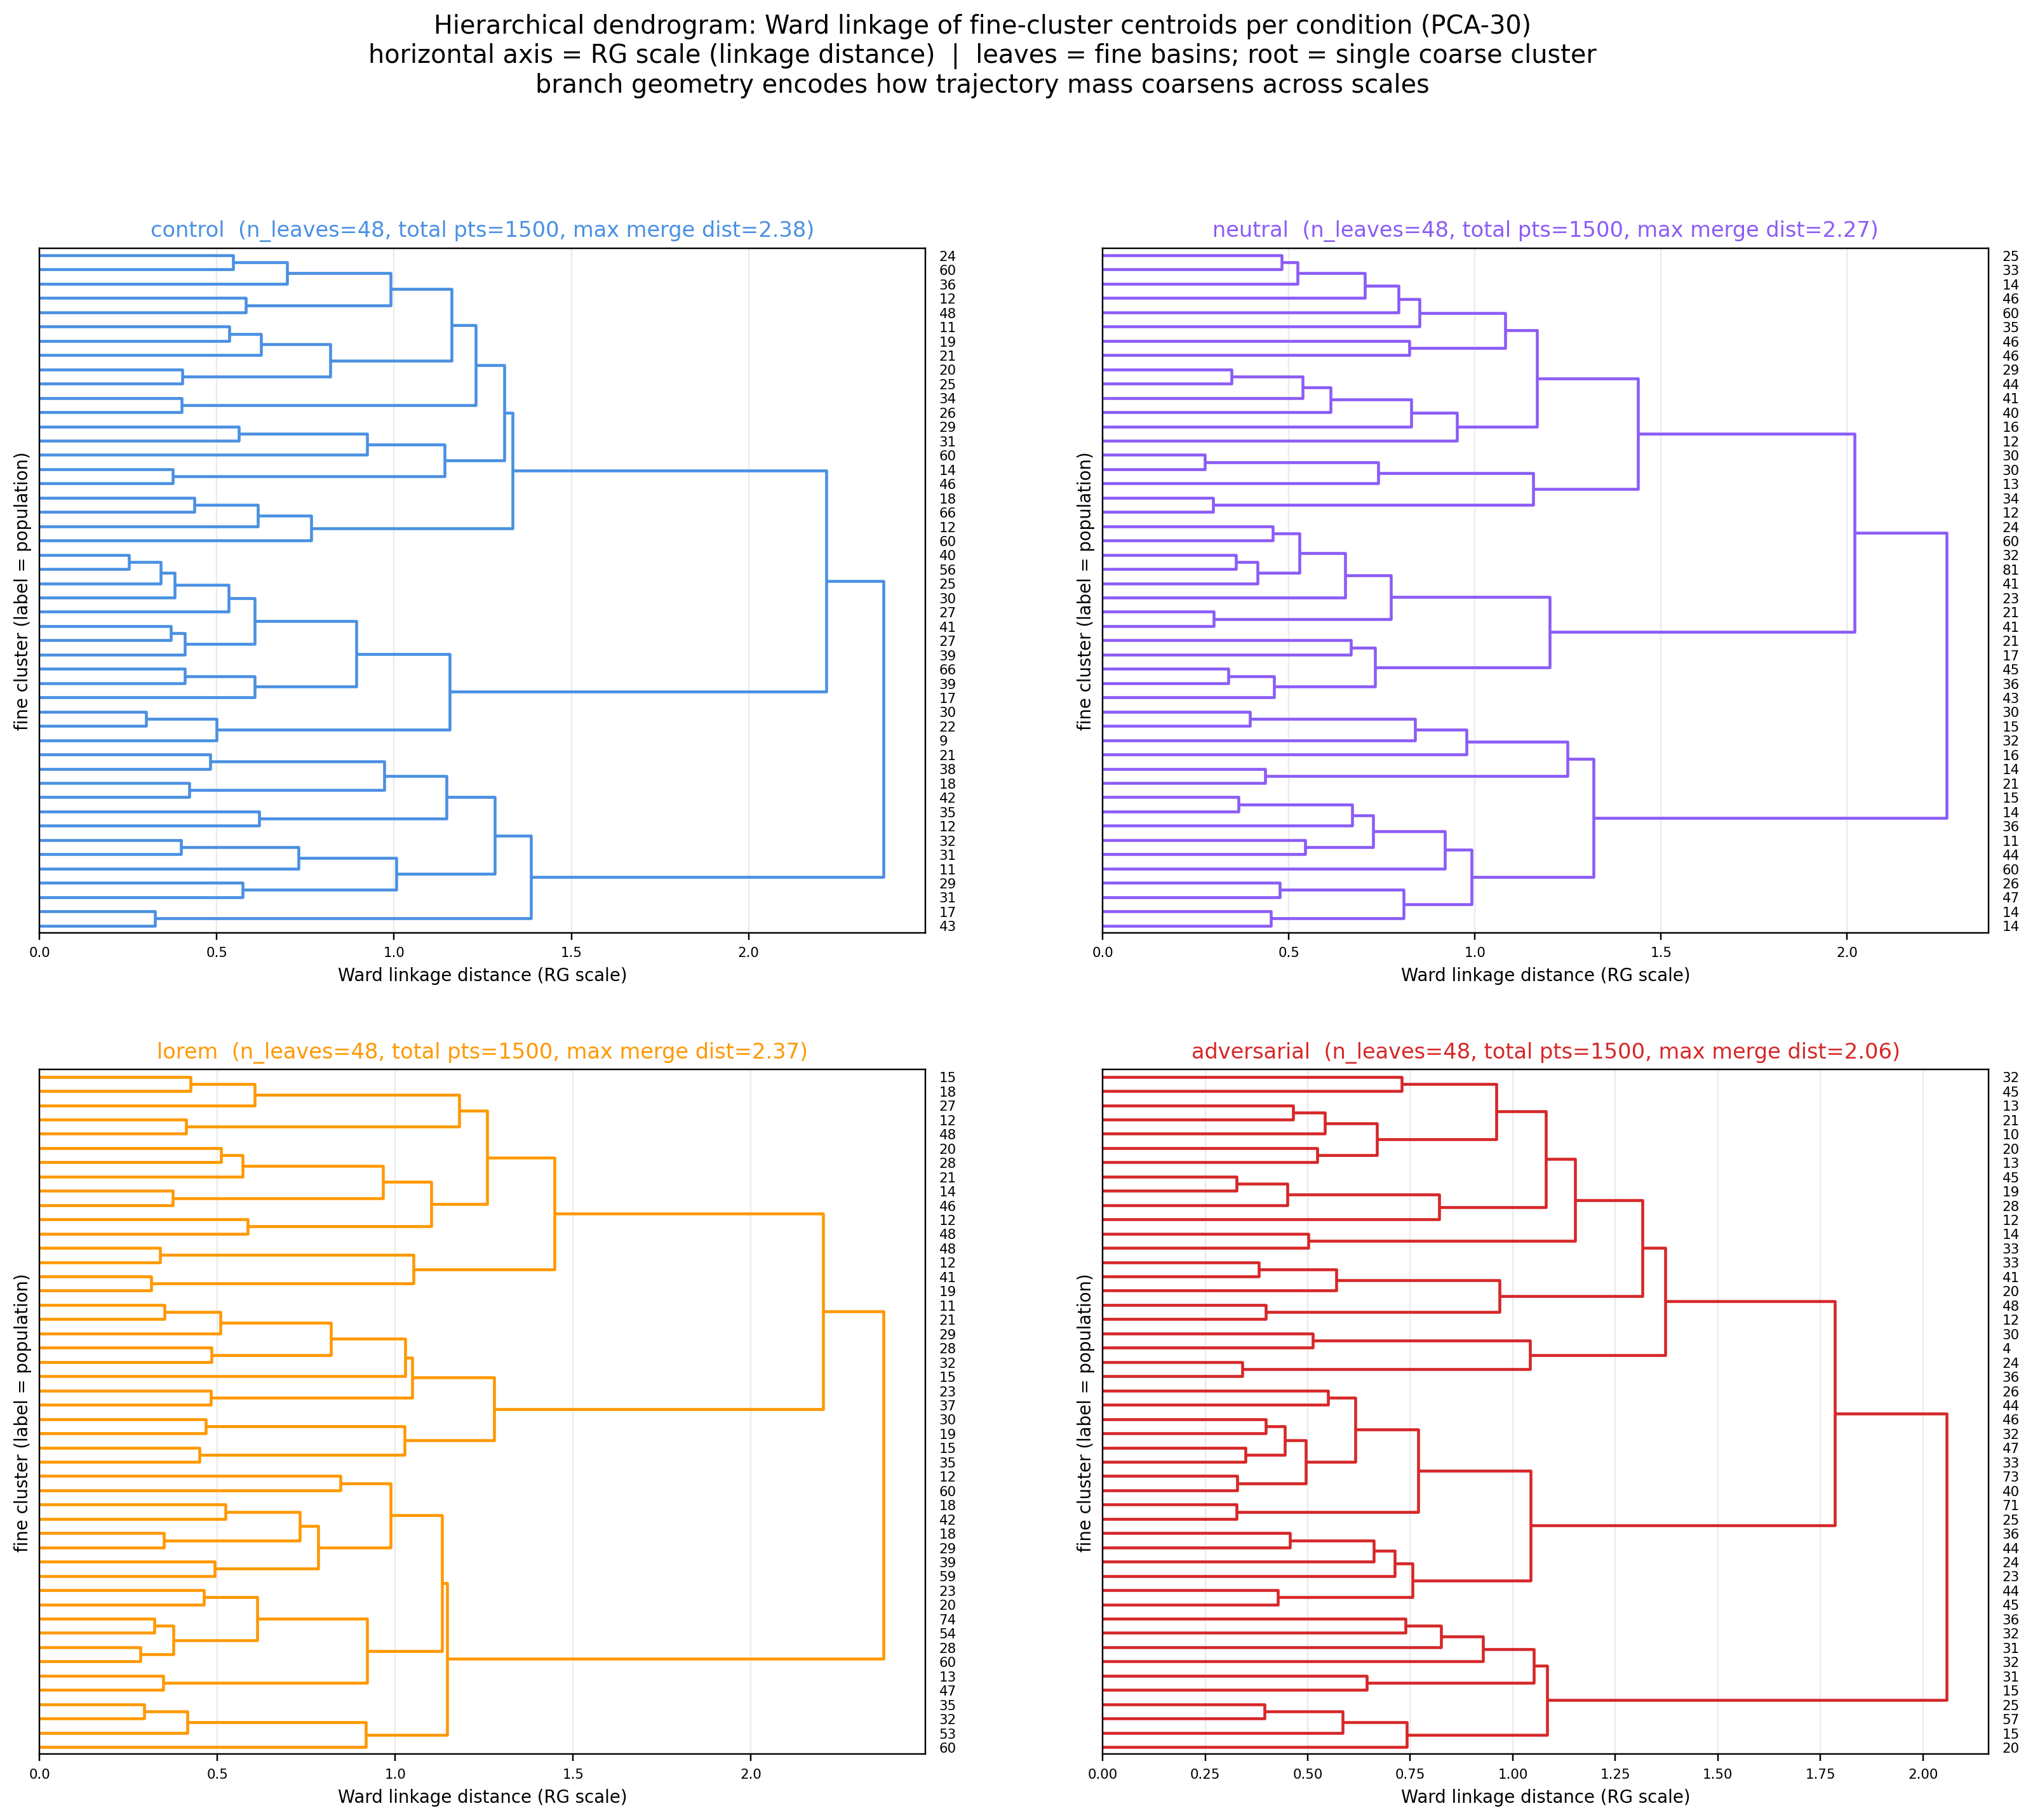
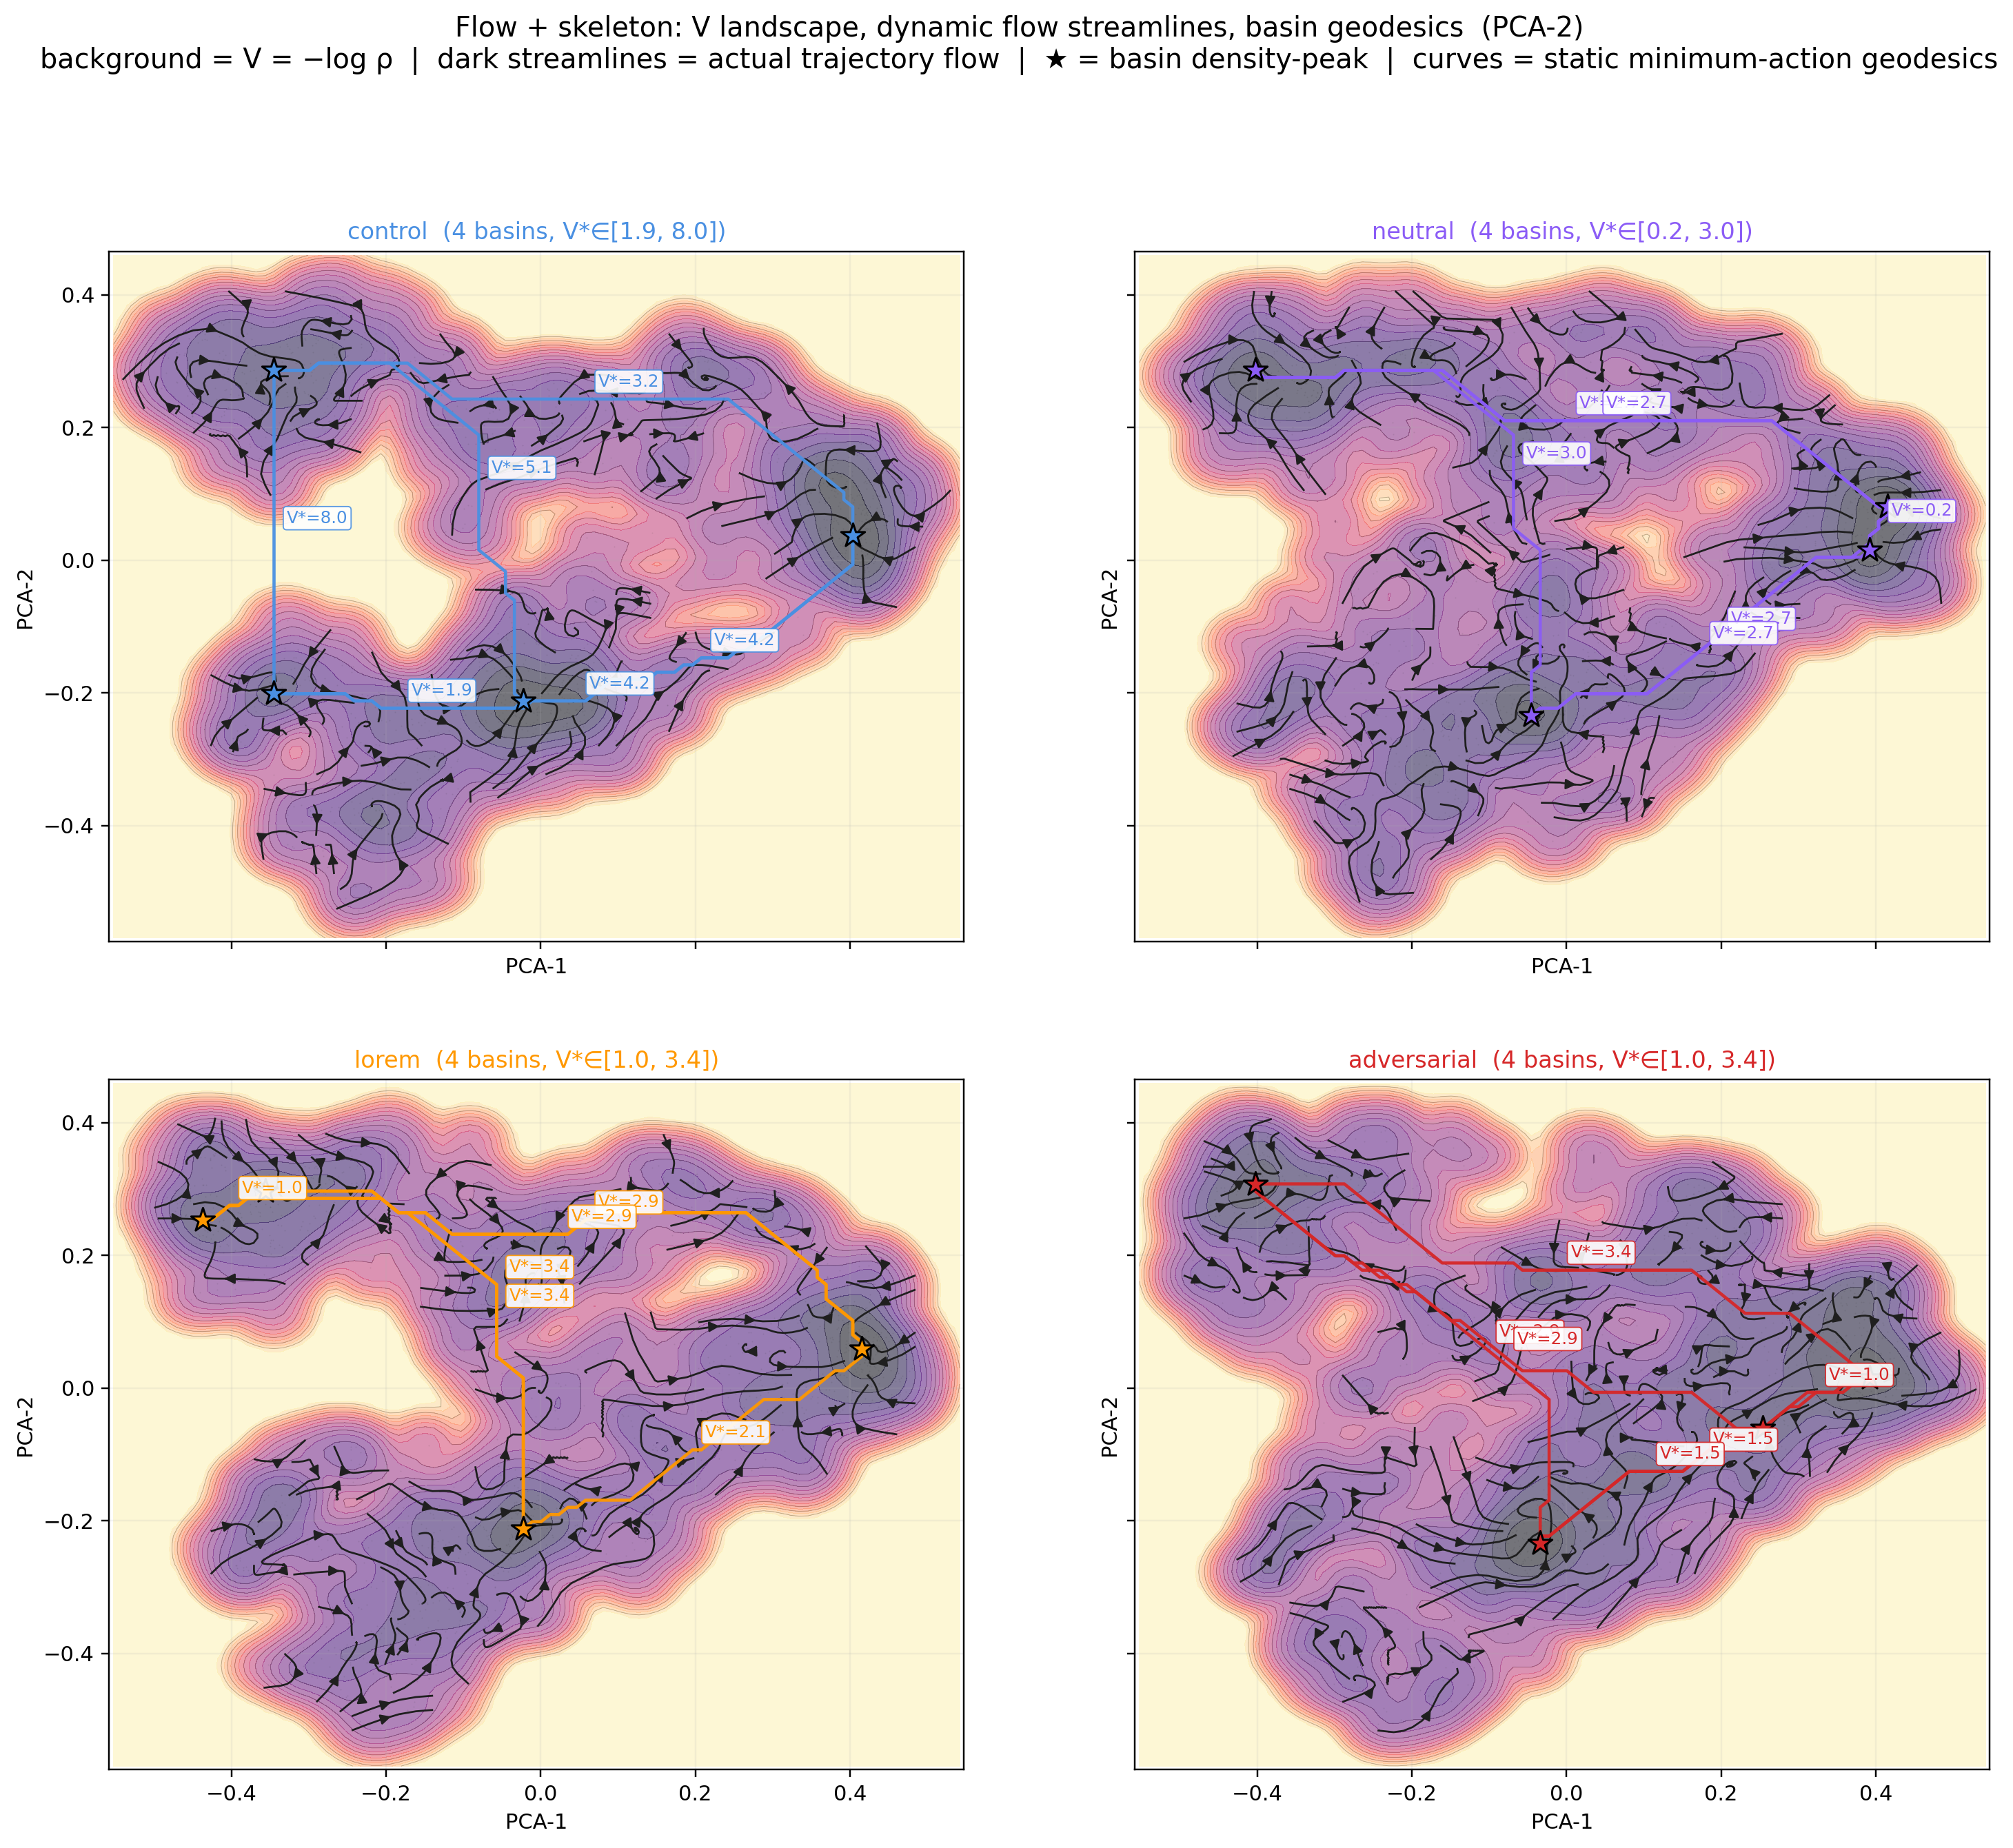
round-22b: add flow skeleton (ED Fig 12) and 3D iso-density (ED Fig 13)
Two figures added to §11.11 to round out the geometric-diagnostics suite:

- ED Fig 12 Representative O1 flow skeleton with basin centers
  (data/exp_perturb_O1_pilot/reports/perturbation/flow_skeleton_pca.png).
  Empirical PCA-2 streamlines overlaid on the smoothed potential
  landscape with detected basin centers marked. Combines local-motion
  direction with the basin-geometry skeleton so the geodesic
  shortest-path construction visually matches the underlying flow.

- ED Fig 13 3D iso-density snapshots of the O1 perturbation pilot
  (data/exp_perturb_O1_pilot/reports/perturbation/animation3d_snapshots.png).
  Three-dimensional iso-density shells at five density fractions in
  PCA-3 space with sampled trajectories overlaid for control, neutral,
  lorem, and adversarial conditions. Exposes basin organization that is
  partially obscured in 2D PCA.

ED Figs renumbered sequentially in document order (1-14). Old ED Fig 12
seed-determinism shifted to ED Fig 9; old ED Fig 11 RG-dendrogram
shifted to ED Fig 14. RG dendrogram caption text and target placement
unchanged.

Build: 70 pages, 13.5 MB, 29 figures (15 main + 14 ED), 0 stale refs.
LaTeX rho-symbol caveat: caption text avoids \rho because the build
script's line-wrap can split \rho into \r-newline-ho; rephrased to
"peak density" instead.

diff --git a/llm_attractor_experiment/paper/paper.tex b/llm_attractor_experiment/paper/paper.tex
@@ -2880,7 +2880,7 @@ Source: §5.11, \texttt{data/aggregated/group\_aware\_basin\_pred.csv}.
 \begin{figure}[h!]
 \centering
 \includegraphics[width=0.95\linewidth]{figures/fig24.png}
-\caption{ED Fig 12. \textbf{Seed determinism versus temperature.} Control-control divergence as a function of temperature, used to contextualize stochastic floors. The figure supports the endpoint rule that raw switching must be interpreted against paired controls. Source: \texttt{data/aggregated/t\_sensitivity\_cross\_regime/seed\_determinism\_vs\_T.png}.}
+\caption{ED Fig 9. \textbf{Seed determinism versus temperature.} Control-control divergence as a function of temperature, used to contextualize stochastic floors. The figure supports the endpoint rule that raw switching must be interpreted against paired controls. Source: \texttt{data/aggregated/t\_sensitivity\_cross\_regime/seed\_determinism\_vs\_T.png}.}
 \end{figure}
 
 
@@ -3039,14 +3039,27 @@ alongside the figures to \texttt{geodesic\_barriers\_pca.csv}. Reading:
 \begin{figure}[h!]
 \centering
 \includegraphics[width=0.95\linewidth]{figures/fig25.png}
-\caption{ED Fig 9. \textbf{Representative O1 perturbation potential landscapes.} PCA-2 density landscapes for the O1 perturbation pilot under control, neutral, lorem, and adversarial conditions. The landscapes are descriptive geometry, not calibrated token barriers. Source: \texttt{data/exp\_perturb\_O1\_pilot/reports/perturbation/bulk\_landscape\_pca.png}.}
+\caption{ED Fig 10. \textbf{Representative O1 perturbation potential landscapes.} PCA-2 density landscapes for the O1 perturbation pilot under control, neutral, lorem, and adversarial conditions. The landscapes are descriptive geometry, not calibrated token barriers. Source: \texttt{data/exp\_perturb\_O1\_pilot/reports/perturbation/bulk\_landscape\_pca.png}.}
 \end{figure}
 
 \begin{figure}[h!]
 \centering
 \includegraphics[width=0.95\linewidth]{figures/fig26.png}
-\caption{ED Fig 10. \textbf{Representative O1 geodesic skeleton.} Geodesic minimum-cost paths between detected basin centers for the O1 perturbation pilot. The figure illustrates how $V^\star$ summaries are constructed. Source: \texttt{data/exp\_perturb\_O1\_pilot/reports/perturbation/geodesic\_skeleton\_pca.png}.}
+\caption{ED Fig 11. \textbf{Representative O1 geodesic skeleton.} Geodesic minimum-cost paths between detected basin centers for the O1 perturbation pilot. The figure illustrates how $V^\star$ summaries are constructed. Source: \texttt{data/exp\_perturb\_O1\_pilot/reports/perturbation/geodesic\_skeleton\_pca.png}.}
 \end{figure}
+
+\begin{figure}[h!]
+\centering
+\includegraphics[width=0.95\linewidth]{figures/fig27.png}
+\caption{ED Fig 12. \textbf{Representative O1 flow skeleton with basin centers.} Empirical PCA-2 flow streamlines overlaid on the smoothed potential landscape, with detected basin centers marked. The view combines local-motion direction with the basin-geometry skeleton to make the geodesic shortest-path construction visually consistent with the underlying flow. Source: \texttt{data/exp\_perturb\_O1\_pilot/reports/perturbation/flow\_skeleton\_pca.png}.}
+\end{figure}
+
+\begin{figure}[h!]
+\centering
+\includegraphics[width=0.95\linewidth]{figures/fig28.png}
+\caption{ED Fig 13. \textbf{3D iso-density snapshots of the O1 perturbation pilot.} Three-dimensional iso-density shells at five density fractions (4\%, 10\%, 20\%, 35\%, 55\% of peak density) computed in PCA-3 space, with sampled trajectories overlaid for control, neutral, lorem, and adversarial conditions. The 3D view exposes basin organization that is partially obscured in the 2D PCA projection. Source: \texttt{data/exp\_perturb\_O1\_pilot/reports/perturbation/animation3d\_snapshots.png}.}
+\end{figure}
+
 
 
 \begin{itemize}
@@ -3100,8 +3113,8 @@ pulls into a tighter region.
 
 \begin{figure}[h!]
 \centering
-\includegraphics[width=0.95\linewidth]{figures/fig27.png}
-\caption{ED Fig 11. \textbf{Representative O1 RG dendrogram.} Ward-merge cloud-expansion dendrogram for the O1 perturbation pilot. The figure supplements the geometric-barrier table with an independent view of condition-wise cloud expansion. Source: \texttt{data/exp\_perturb\_O1\_pilot/reports/perturbation/rg\_dendrogram\_pca.png}.}
+\includegraphics[width=0.95\linewidth]{figures/fig29.png}
+\caption{ED Fig 14. \textbf{Representative O1 RG dendrogram.} Ward-merge cloud-expansion dendrogram for the O1 perturbation pilot. The figure supplements the geometric-barrier table with an independent view of condition-wise cloud expansion. Source: \texttt{data/exp\_perturb\_O1\_pilot/reports/perturbation/rg\_dendrogram\_pca.png}.}
 \end{figure}
 
 

diff --git a/llm_attractor_experiment/.dev/fix_rho.py b/llm_attractor_experiment/.dev/fix_rho.py
@@ -1,0 +1,12 @@
+"""Fix the broken \\rho in ED Fig 13 caption."""
+from pathlib import Path
+ARTICLE = Path(r"D:\ROOT\llmattr\llm_attractor_experiment\ARTICLE.md")
+text = ARTICLE.read_text(encoding="utf-8")
+broken = "$\\hat\nho$"
+fixed = "$\\hat\\rho$"
+n = text.count(broken)
+text = text.replace(broken, fixed)
+ARTICLE.write_text(text, encoding="utf-8")
+print(f"replaced {n} broken-rho occurrences")
+print("verification: 'hatho' in text:", "hatho" in text)
+print("verification: 'hat\\\\rho' in text:", "hat\\rho" in text)

diff --git a/llm_attractor_experiment/.dev/fix_rho2.py b/llm_attractor_experiment/.dev/fix_rho2.py
@@ -1,0 +1,11 @@
+"""Fix \\rho in ED Fig 13 caption by rephrasing to plain English."""
+from pathlib import Path
+ARTICLE = Path(r"D:\ROOT\llmattr\llm_attractor_experiment\ARTICLE.md")
+text = ARTICLE.read_text(encoding="utf-8")
+old = r"five density fractions (4%, 10%, 20%, 35%, 55% of max $\hat\rho$)"
+new = "five density fractions (4%, 10%, 20%, 35%, 55% of peak density)"
+n = text.count(old)
+print(f"matches: {n}")
+text = text.replace(old, new)
+ARTICLE.write_text(text, encoding="utf-8")
+print("rho:", "\\rho" in text)

diff --git a/llm_attractor_experiment/ARTICLE.md b/llm_attractor_experiment/ARTICLE.md
@@ -2465,7 +2465,7 @@ Source: §5.11, `data/aggregated/group_aware_basin_pred.csv`.
 
 ![ED Fig 8. **Temperature-sweep basin predictability.** Basin predictability as a function of sampling temperature. These reduced-scope cells are exploratory and are not used as primary evidence for temperature effects. Source: `data/aggregated/t_sweep_basin_predictability/t_sweep_basin_predictability.png`.](data/aggregated/t_sweep_basin_predictability/t_sweep_basin_predictability.png)
 
-![ED Fig 12. **Seed determinism versus temperature.** Control-control divergence as a function of temperature, used to contextualize stochastic floors. The figure supports the endpoint rule that raw switching must be interpreted against paired controls. Source: `data/aggregated/t_sensitivity_cross_regime/seed_determinism_vs_T.png`.](data/aggregated/t_sensitivity_cross_regime/seed_determinism_vs_T.png)
+![ED Fig 9. **Seed determinism versus temperature.** Control-control divergence as a function of temperature, used to contextualize stochastic floors. The figure supports the endpoint rule that raw switching must be interpreted against paired controls. Source: `data/aggregated/t_sensitivity_cross_regime/seed_determinism_vs_T.png`.](data/aggregated/t_sensitivity_cross_regime/seed_determinism_vs_T.png)
 
 
 #### C2, Temporal recurrence vs null
@@ -2580,9 +2580,14 @@ The $V_{\max} \approx 8.0$ ceiling appears when a geodesic crosses
 a region of near-zero density. Per-geodesic raw values are written
 alongside the figures to `geodesic_barriers_pca.csv`. Reading:
 
-![ED Fig 9. **Representative O1 perturbation potential landscapes.** PCA-2 density landscapes for the O1 perturbation pilot under control, neutral, lorem, and adversarial conditions. The landscapes are descriptive geometry, not calibrated token barriers. Source: `data/exp_perturb_O1_pilot/reports/perturbation/bulk_landscape_pca.png`.](data/exp_perturb_O1_pilot/reports/perturbation/bulk_landscape_pca.png)
+![ED Fig 10. **Representative O1 perturbation potential landscapes.** PCA-2 density landscapes for the O1 perturbation pilot under control, neutral, lorem, and adversarial conditions. The landscapes are descriptive geometry, not calibrated token barriers. Source: `data/exp_perturb_O1_pilot/reports/perturbation/bulk_landscape_pca.png`.](data/exp_perturb_O1_pilot/reports/perturbation/bulk_landscape_pca.png)
 
-![ED Fig 10. **Representative O1 geodesic skeleton.** Geodesic minimum-cost paths between detected basin centers for the O1 perturbation pilot. The figure illustrates how $V^\star$ summaries are constructed. Source: `data/exp_perturb_O1_pilot/reports/perturbation/geodesic_skeleton_pca.png`.](data/exp_perturb_O1_pilot/reports/perturbation/geodesic_skeleton_pca.png)
+![ED Fig 11. **Representative O1 geodesic skeleton.** Geodesic minimum-cost paths between detected basin centers for the O1 perturbation pilot. The figure illustrates how $V^\star$ summaries are constructed. Source: `data/exp_perturb_O1_pilot/reports/perturbation/geodesic_skeleton_pca.png`.](data/exp_perturb_O1_pilot/reports/perturbation/geodesic_skeleton_pca.png)
+
+![ED Fig 12. **Representative O1 flow skeleton with basin centers.** Empirical PCA-2 flow streamlines overlaid on the smoothed potential landscape, with detected basin centers marked. The view combines local-motion direction with the basin-geometry skeleton to make the geodesic shortest-path construction visually consistent with the underlying flow. Source: `data/exp_perturb_O1_pilot/reports/perturbation/flow_skeleton_pca.png`.](data/exp_perturb_O1_pilot/reports/perturbation/flow_skeleton_pca.png)
+
+![ED Fig 13. **3D iso-density snapshots of the O1 perturbation pilot.** Three-dimensional iso-density shells at five density fractions (4%, 10%, 20%, 35%, 55% of peak density) computed in PCA-3 space, with sampled trajectories overlaid for control, neutral, lorem, and adversarial conditions. The 3D view exposes basin organization that is partially obscured in the 2D PCA projection. Source: `data/exp_perturb_O1_pilot/reports/perturbation/animation3d_snapshots.png`.](data/exp_perturb_O1_pilot/reports/perturbation/animation3d_snapshots.png)
+
 
 
 - **O2/O3 lorem** has $V^\star \approx 5.6 / 7.0$, the highest
@@ -2624,7 +2629,7 @@ basin far from the original attractor; (3) **O1 adversarial mildly
 compresses** (2.06 vs 2.38), in-distribution adversarial text
 pulls into a tighter region.
 
-![ED Fig 11. **Representative O1 RG dendrogram.** Ward-merge cloud-expansion dendrogram for the O1 perturbation pilot. The figure supplements the geometric-barrier table with an independent view of condition-wise cloud expansion. Source: `data/exp_perturb_O1_pilot/reports/perturbation/rg_dendrogram_pca.png`.](data/exp_perturb_O1_pilot/reports/perturbation/rg_dendrogram_pca.png)
+![ED Fig 14. **Representative O1 RG dendrogram.** Ward-merge cloud-expansion dendrogram for the O1 perturbation pilot. The figure supplements the geometric-barrier table with an independent view of condition-wise cloud expansion. Source: `data/exp_perturb_O1_pilot/reports/perturbation/rg_dendrogram_pca.png`.](data/exp_perturb_O1_pilot/reports/perturbation/rg_dendrogram_pca.png)
 
 
 ### 11.12 Instrumenting your own recursive system: recipe and reporting standard